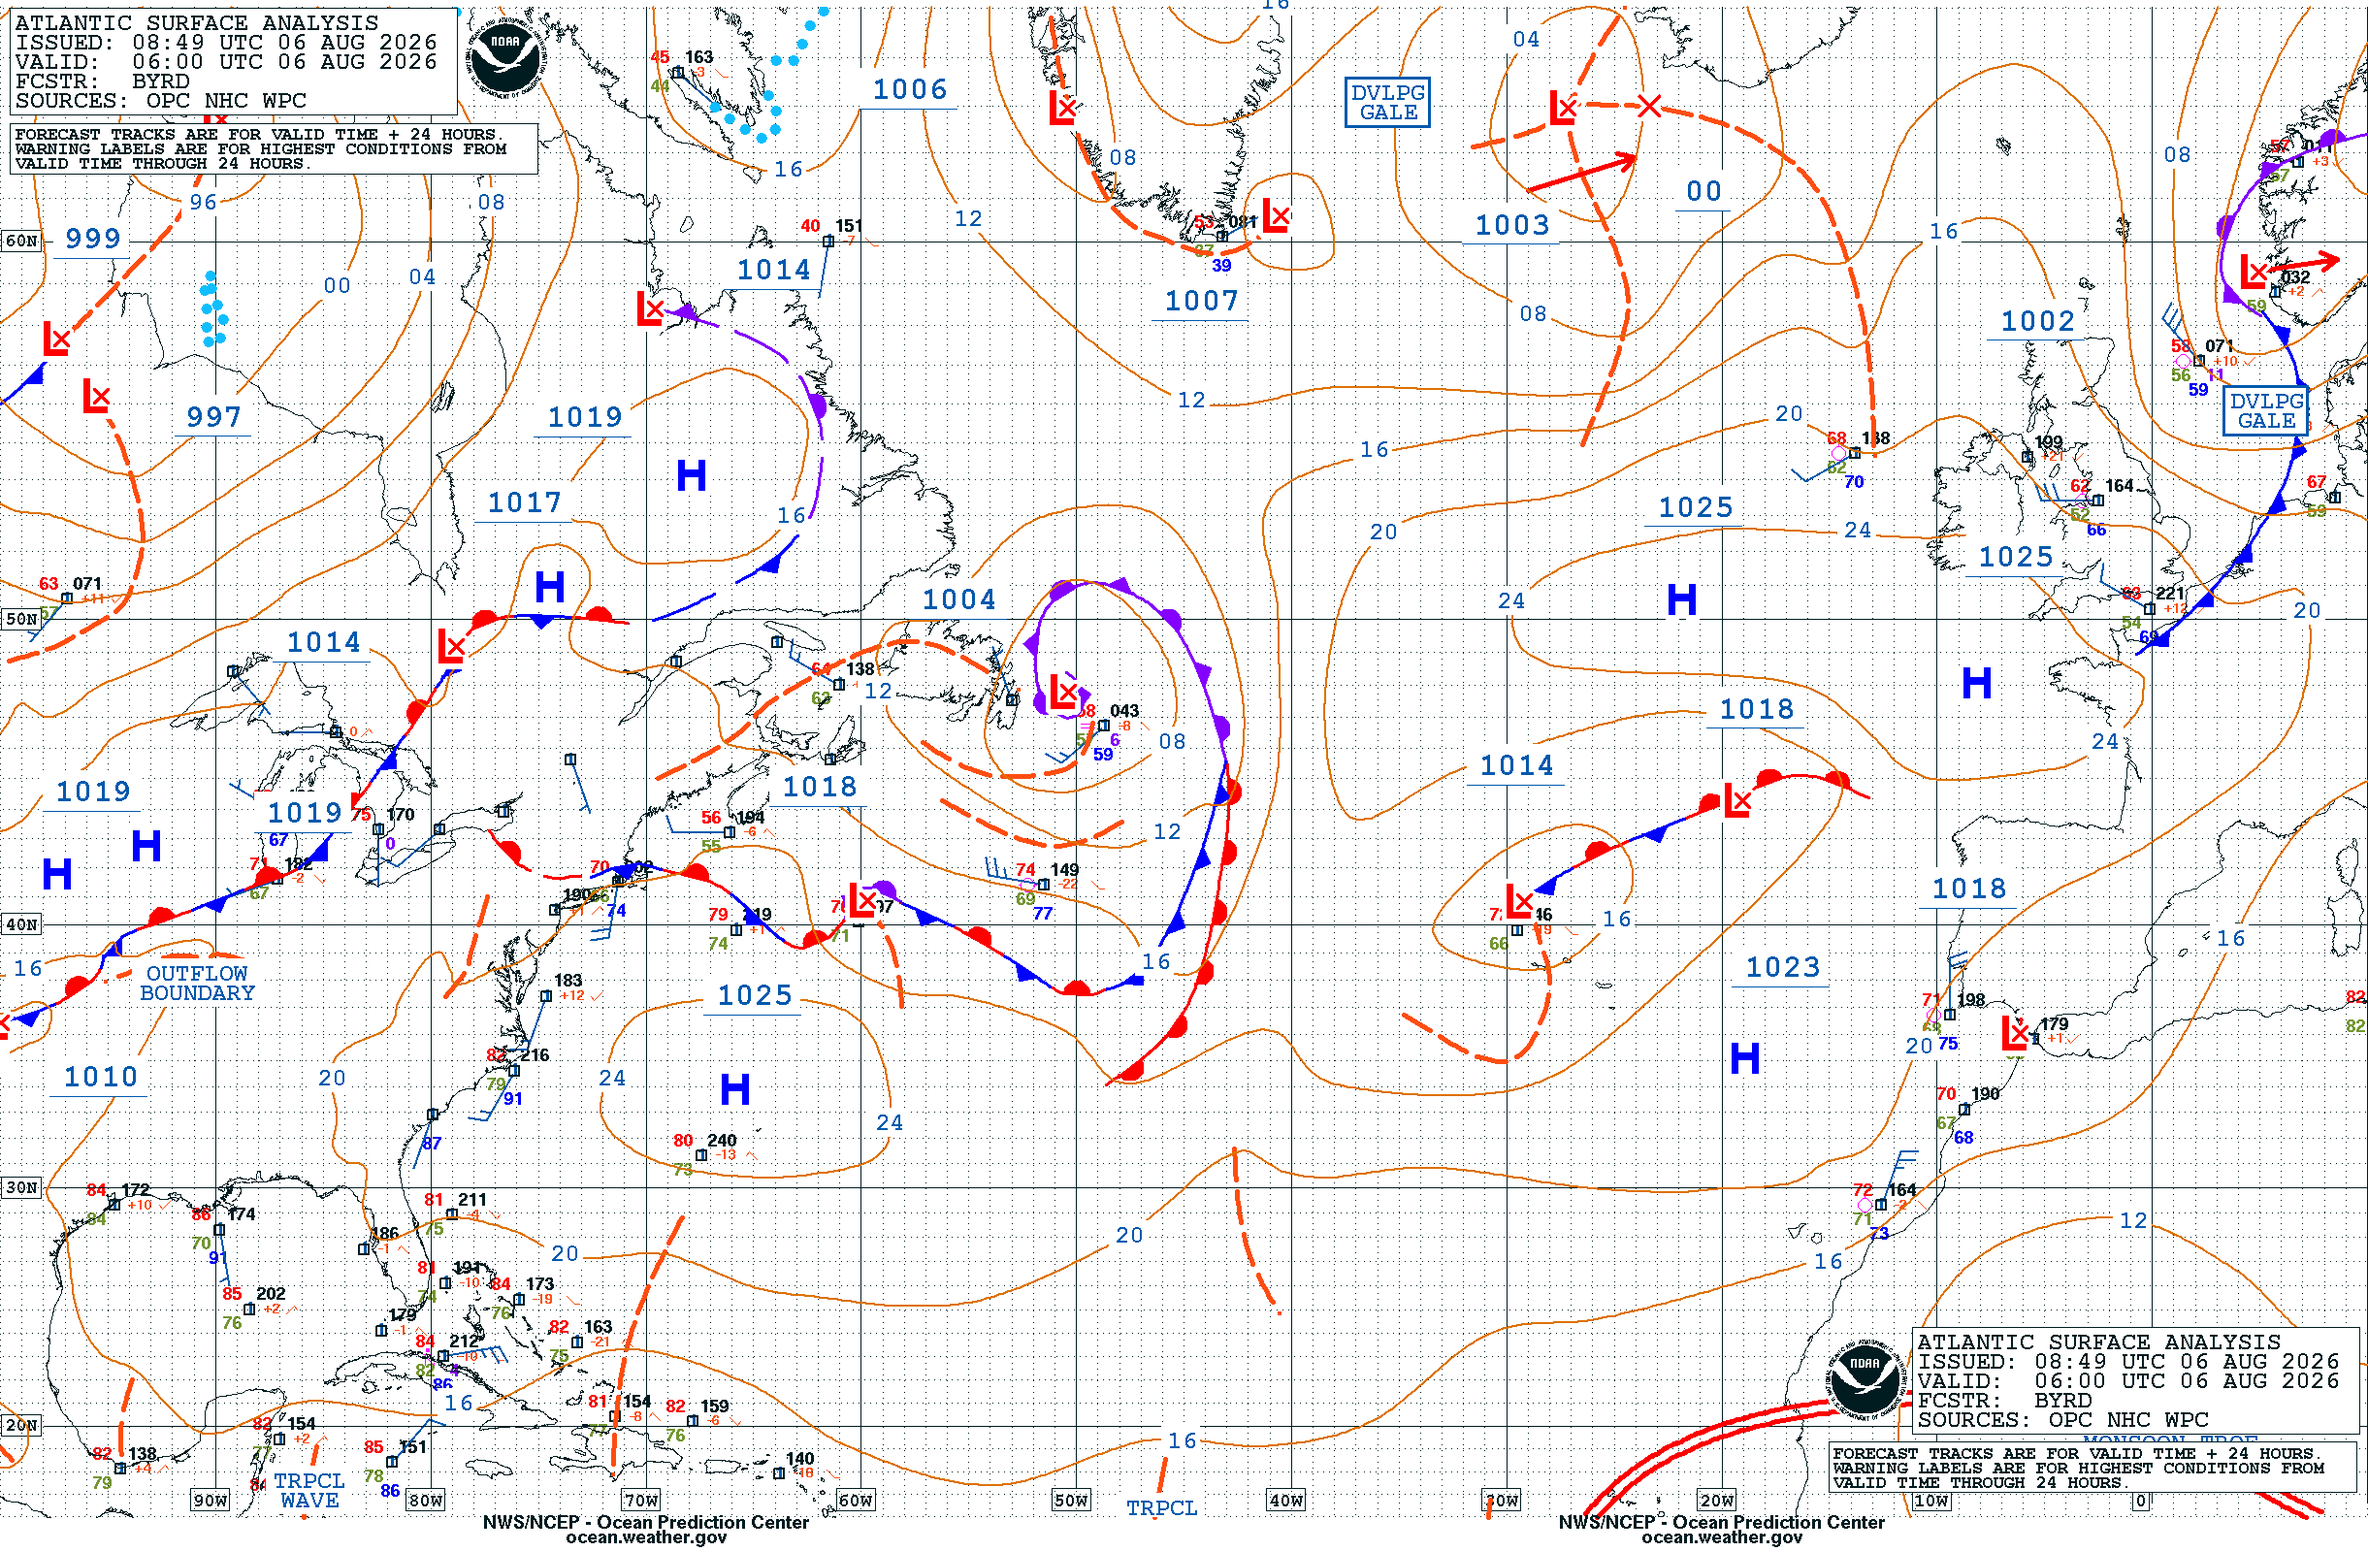
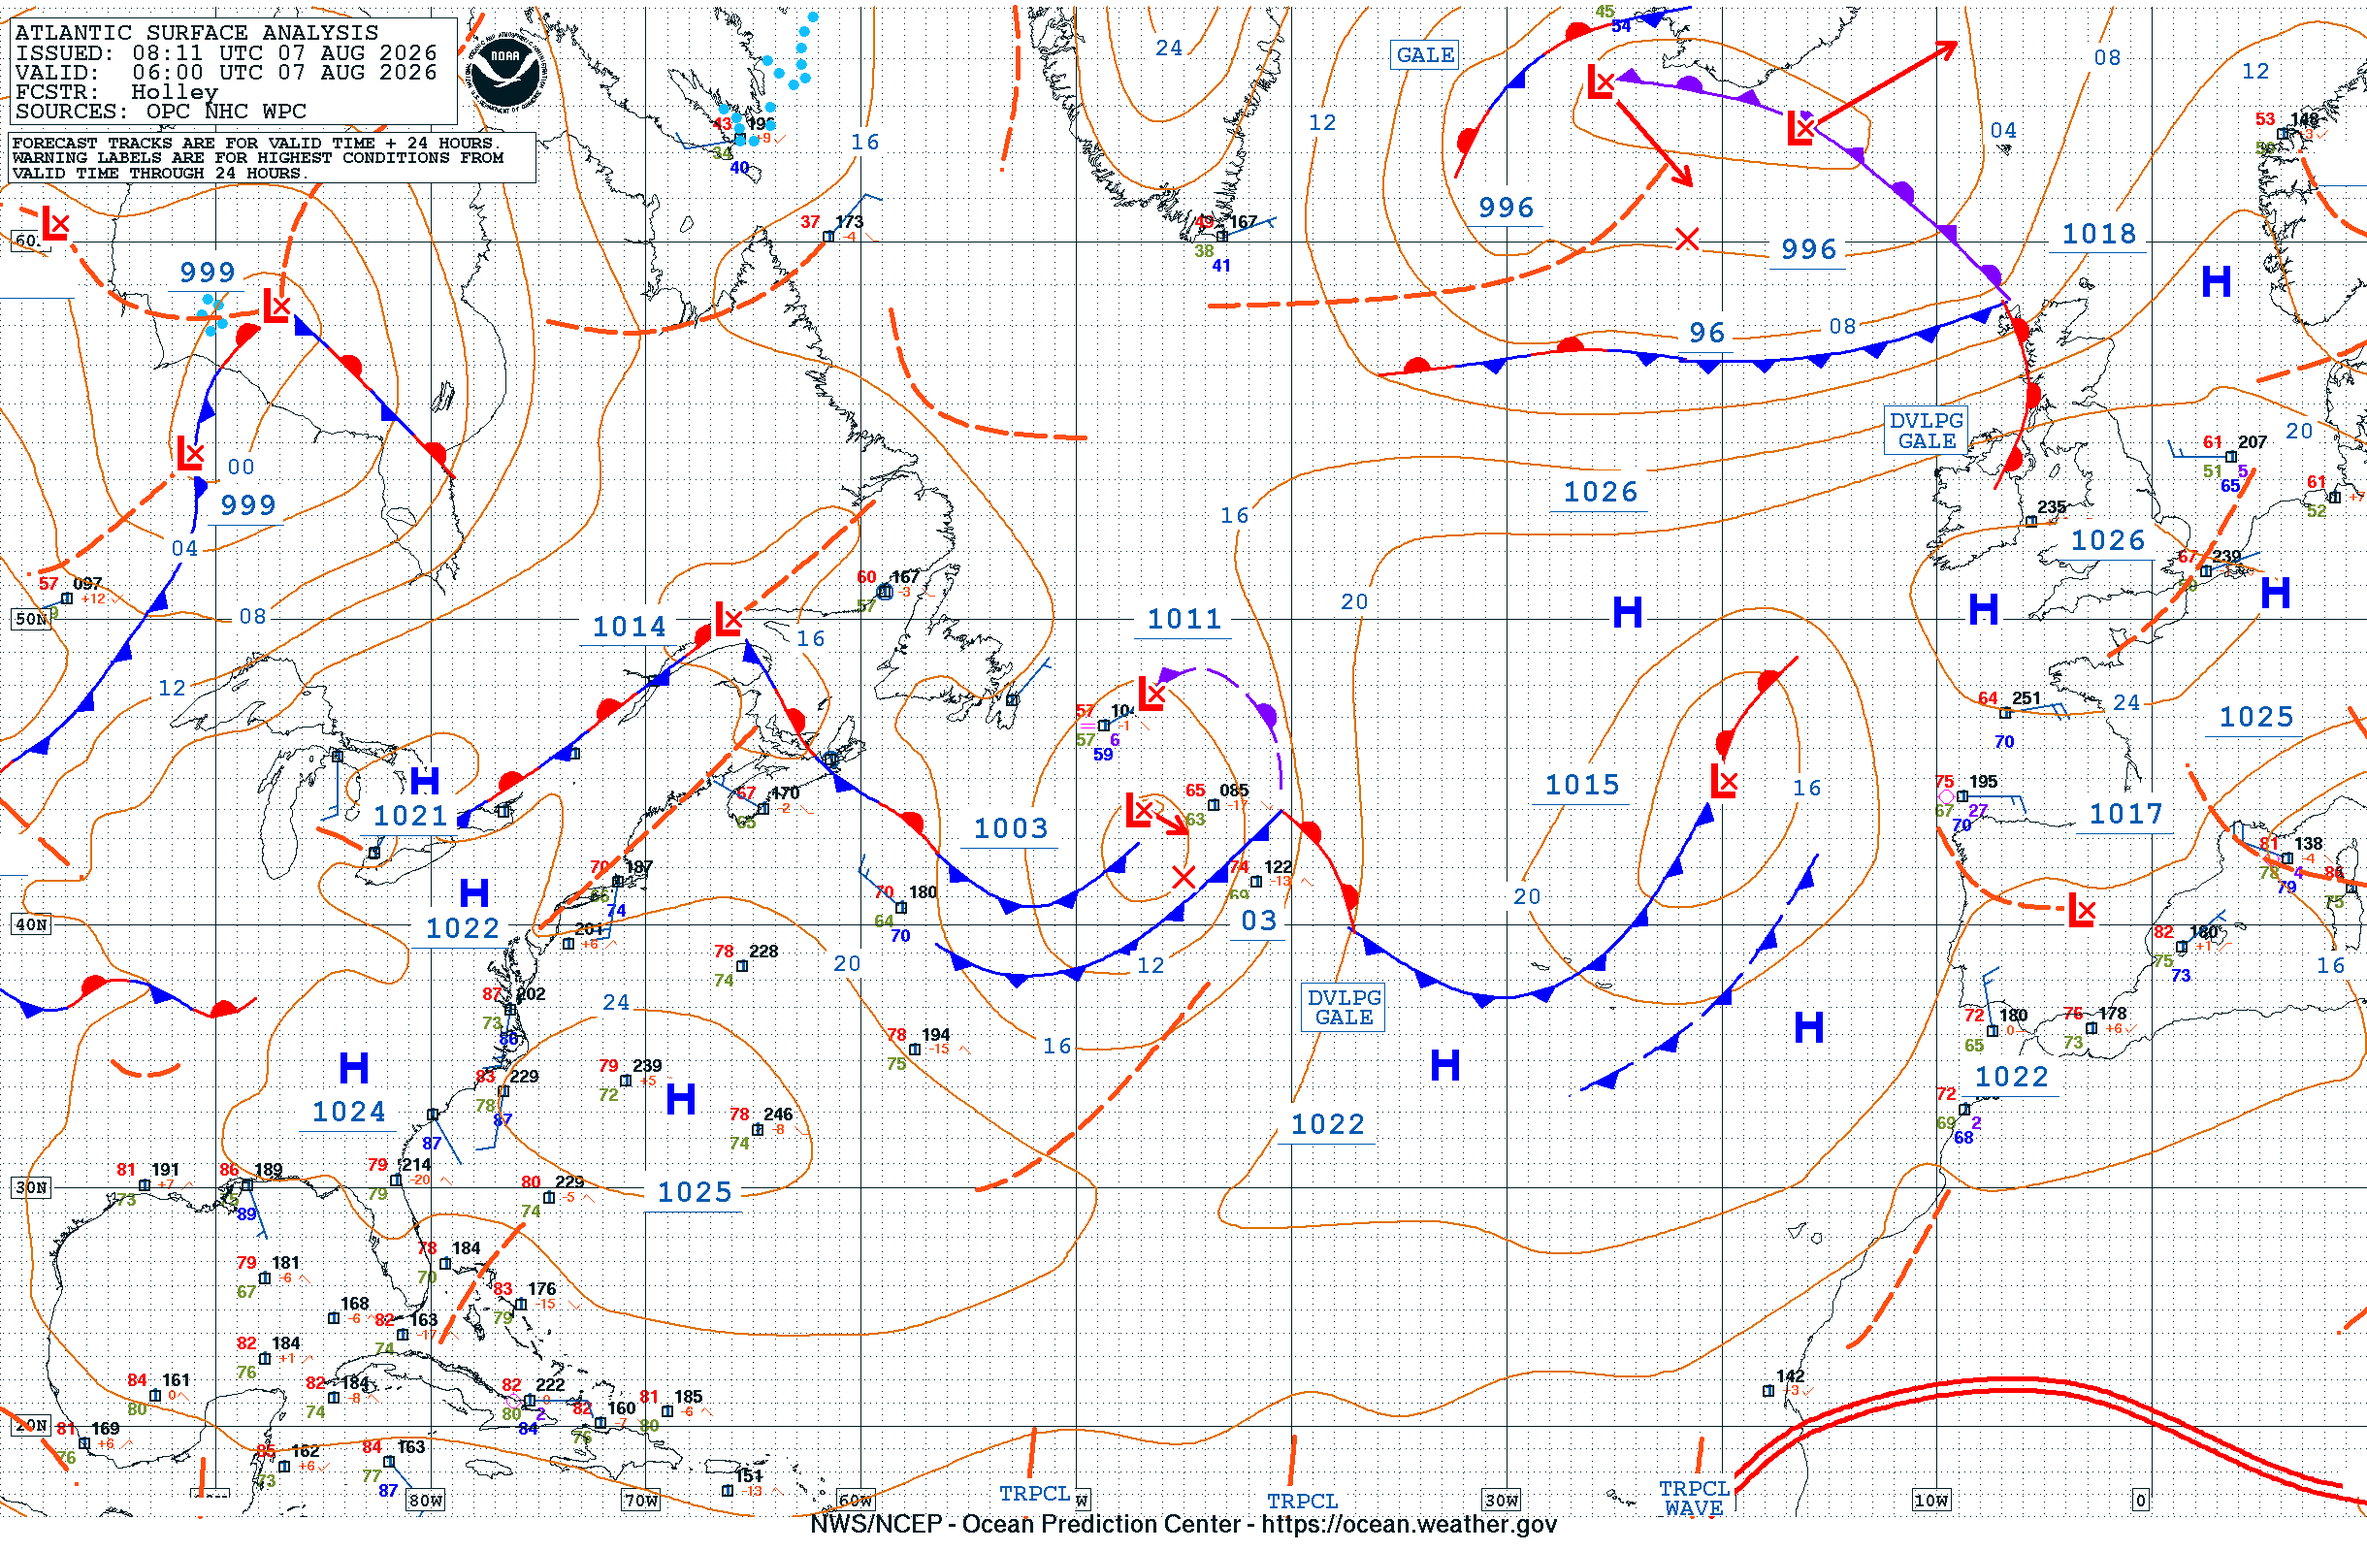
Refine topography query resampling

diff --git a/architeuthis/toolbox/assets/dashExtensions_default.js b/architeuthis/toolbox/assets/dashExtensions_default.js
@@ -1,0 +1,43 @@
+window.dashExtensions = Object.assign({}, window.dashExtensions, {
+    default: {
+        function0: function(feature, latlng) {
+                const size = feature.properties.size || 0;
+                const color = feature.properties.color || "#ff0000";
+                const angle = feature.properties.angle || 0;
+                const opacity = feature.properties.opacity || 0.80;
+                const icon = feature.properties.icon || "material-symbols:circle";
+                const html = `<span class="iconify"
+        data-icon=${icon}
+        data-width="${size}"
+        data-height="${size}"
+        style="
+        transform: rotate(${angle}deg);
+        color: ${color};
+        display: block;
+        opacity: ${opacity};
+        ">
+    </span>`;
+                return L.marker(latlng, {
+                    icon: L.divIcon({
+                        html: html,
+                        className: "",
+                        iconSize: [size, size],
+                        iconAnchor: [size / 2, size / 2]
+                    })
+                });
+            }
+
+            ,
+        function1: function(feature) {
+            if (feature.properties.kind === "route") {
+                return {
+                    color: feature.properties.color || "#ff0000",
+                    weight: feature.properties.weight || 2,
+                    opacity: feature.properties.opacity || 0.80,
+                };
+            }
+            return {};
+        }
+
+    }
+});

diff --git a/architeuthis/core.py b/architeuthis/core.py
@@ -16,7 +16,14 @@ from architeuthis.optimization import Opti
 from architeuthis.icebergs import berg_zone
 from architeuthis.forecast import Forecast, Topography
 from architeuthis.common import ArchiteuthisObject, Datetime
-from architeuthis.toolbox.geo_utils import great_circle_route, distances, midpoints, headings, poly_deviated_route
+from architeuthis.toolbox.geo_utils import (
+    great_circle_route,
+    distances,
+    midpoints,
+    headings,
+    poly_deviated_route,
+    resample_coordinates,
+)
 
 # Useful for broadcasting with matrices later.
 def tall(array):
@@ -66,68 +73,69 @@ SOLVED = {
 }
 
 exclusion_zones = [
-    [
-        [46.6475507, -53.0879974],
-        [47.1448975, -52.6904297],
-        [47.8057761, -52.6574707],
-        [48.7272088, -53.0310059],
-        [52.2547088, -55.5688477],
-        [57.0646303, -61.6992188],
-        [59.1759282, -64.0283203],
-        [60.5221575, -64.8193359],
-        [62.0833149, -66.2255859],
-        [63.5485522, -70.3125000],
-        [64.4348920, -73.6083984],
-        [64.8862654, -77.3876953],
-        [66.0715465, -86.4404297],
-        [64.1681069, -92.1093750],
-        [59.4450751, -96.6796875],
-        [56.2677611, -95.9765625],
-        [46.1950421, -92.7246094],
-        [41.0793511, -87.6708984],
-        [35.3532161, -75.9814453],
-        [37.7620299, -77.0141602],
-        [38.3761154, -76.9454956],
-        [38.9935721, -76.8273926],
-        [39.2577782, -76.3659668],
-        [38.3416562, -75.9594727],
-        [37.2980904, -75.9979248],
-        [37.1121458, -75.9539795],
-        [37.6164071, -75.5804443],
-        [38.0351124, -75.2563477],
-        [38.4084061, -75.0723267],
-        [38.7883454, -75.0860596],
-        [39.2705372, -74.6026611],
-        [39.7747695, -74.1137695],
-        [40.3904888, -73.9984131],
-        [41.2881262, -70.7794189],
-        [41.2365112, -69.9746704],
-        [41.2943173, -69.9362183],
-        [41.8347815, -69.9307251],
-        [42.0615286, -70.0708008],
-        [42.6440611, -70.5844116],
-        [43.4130287, -70.4553223],
-        [43.8345268, -68.8623047],
-        [44.6881828, -67.1539307],
-        [44.2412638, -66.3958740],
-        [43.3930737, -66.0305786],
-        [43.3850899, -65.6268311],
-        [43.5007524, -65.2807617],
-        [44.4631908, -63.5641479],
-        [45.2555553, -60.9851074],
-        [46.0045933, -59.6667480],
-        [47.0252060, -60.3918457],
-        [47.5394554, -59.2053223],
-        [47.2549999, -55.9616089],
-        [46.9146271, -55.9780884],
-        [46.8414071, -55.8050537],
-        [46.8733358, -55.3738403],
-        [46.8188578, -54.1873169],
-        [46.6098279, -53.5720825],
-        [46.6263348, -53.1614685],
-        [46.6484934, -53.0879974],
-        [46.6475507, -53.0879974]
-    ],
+    # [
+    #     [46.6475507, -53.0879974],
+    #     [47.1448975, -52.6904297],
+    #     [47.8057761, -52.6574707],
+    #     [48.7272088, -53.0310059],
+    #     [52.2547088, -55.5688477],
+    #     [57.0646303, -61.6992188],
+    #     [59.1759282, -64.0283203],
+    #     [60.5221575, -64.8193359],
+    #     [62.0833149, -66.2255859],
+    #     [63.5485522, -70.3125000],
+    #     [64.4348920, -73.6083984],
+    #     [64.8862654, -77.3876953],
+    #     [66.0715465, -86.4404297],
+    #     [64.1681069, -92.1093750],
+    #     [59.4450751, -96.6796875],
+    #     [56.2677611, -95.9765625],
+    #     [46.1950421, -92.7246094],
+    #     [41.0793511, -87.6708984],
+    #     [35.3532161, -75.9814453],
+    #     [37.7620299, -77.0141602],
+    #     [38.3761154, -76.9454956],
+    #     [38.9935721, -76.8273926],
+    #     [39.2577782, -76.3659668],
+    #     [38.3416562, -75.9594727],
+    #     [37.2980904, -75.9979248],
+    #     [37.1121458, -75.9539795],
+    #     [37.6164071, -75.5804443],
+    #     [38.0351124, -75.2563477],
+    #     [38.4084061, -75.0723267],
+    #     [38.7883454, -75.0860596],
+    #     [39.2705372, -74.6026611],
+    #     [39.7747695, -74.1137695],
+    #     [40.3904888, -73.9984131],
+    #     [41.2881262, -70.7794189],
+    #     [41.2365112, -69.9746704],
+    #     [41.2943173, -69.9362183],
+    #     [41.8347815, -69.9307251],
+    #     [42.0615286, -70.0708008],
+    #     [42.6440611, -70.5844116],
+    #     [43.4130287, -70.4553223],
+    #     [43.8345268, -68.8623047],
+    #     [44.6881828, -67.1539307],
+    #     [44.2412638, -66.3958740],
+    #     [43.3930737, -66.0305786],
+    #     [43.3850899, -65.6268311],
+    #     [43.5007524, -65.2807617],
+    #     [44.4631908, -63.5641479],
+    #     [45.2555553, -60.9851074],
+    #     [46.0045933, -59.6667480],
+    #     [47.0252060, -60.3918457],
+    #     [47.5394554, -59.2053223],
+    #     [47.2549999, -55.9616089],
+    #     [46.9146271, -55.9780884],
+    #     [46.8414071, -55.8050537],
+    #     [46.8733358, -55.3738403],
+    #     [46.8188578, -54.1873169],
+    #     [46.6098279, -53.5720825],
+    #     [46.6263348, -53.1614685],
+    #     [46.6484934, -53.0879974],
+    #     [46.6475507, -53.0879974]
+    # ],
+    
     # [
     #     [47.234906794905456, -2.298894594711654],
     #     [47.25856998567288, -2.4325583888579034],
@@ -419,9 +427,28 @@ class RoutingAnalysis(ArchiteuthisAnalysis):
         uc = self.current("uo", environment_query) * 3600./1852.
         vc = self.current("vo", environment_query) * 3600./1852.
         
+        # tlat = midpoints(np.concatenate((lat[1:-1], clat)))
+        # tlon = midpoints(np.concatenate((lon[1:-1], clon)))
+        
+        
+        # print("ntm")
+        
+        tlat, tlon = resample_coordinates(
+            lat[1:-1],
+            lon[1:-1],
+            n=6,
+        )
+        
+        # print(tlon)
+        # print(tlat)
+        
+        # tlat, tlon = lat[1:-1], lon[1:-1]
+        
         topography_query = np.concatenate([
-            np.concatenate((lat[1:-1], clat)),
-            np.concatenate((lon[1:-1], clon)),
+            # np.concatenate((lat[1:-1], clat)),
+            # np.concatenate((lon[1:-1], clon)),
+            tlat,
+            tlon,
         ], axis=1)
         
         z = self.topography("z", topography_query)
@@ -432,9 +459,6 @@ class RoutingAnalysis(ArchiteuthisAnalysis):
         # TODO find why east/north wave generates unstability
         # swh = np.sqrt(uw**2. + vw**2.)
         # mwd = np.mod(np.arctan2d(uw, vw)+180, 360.)
-        
-        # tcs = np.sqrt(u10**2. + v10**2.) # current speed in kts
-        # tcd = np.mod(np.arctan2d(uc, vc), 360.) # current going to from 0 to 360 deg
         
         cog = headings(lat, lon)
         
@@ -461,6 +485,10 @@ class RoutingAnalysis(ArchiteuthisAnalysis):
         # Apparent Wind Speed (AWS) and Apparent Wind Angle (AWA)
         aws = np.sqrt(u_aw**2. + v_aw**2.)
         awa = np.arctan2d(u_aw, v_aw)
+        
+        # Current Speed (CS) and Current direction (CD)
+        cs = np.sqrt(uc**2. + vc**2.) # current speed in kts
+        cd = np.mod(np.arctan2d(uc, vc), 360.) # current going to from 0 to 360 deg
         
         vessel_query = np.concatenate([
             stw, tws, np.abs(twa), swh, np.abs(mwa),

diff --git a/architeuthis/toolbox/geo_utils.py b/architeuthis/toolbox/geo_utils.py
@@ -117,6 +117,33 @@ def midpoints(pts):
     return (pts[:-1] + pts[1:]) / 2
 
 
+def resample_coordinates(lat, lon, n):
+    
+    if n <= 0:
+        return lat, lon
+
+    # Calculate step fractions (e.g., for n=1: t_vals = [0.0, 0.5])
+    t_vals = np.linspace(0, 1, n + 2)[:-1]
+    
+    new_lats = []
+    new_lons = []
+    
+    # lat.shape[0] safely gets the length of a CasADi vector or Numpy array
+    num_points = lat.shape[0]
+    
+    # Build the interpolation point-by-point
+    for i in range(num_points - 1):
+        for t in t_vals:
+            new_lats.append(lat[i] * (1 - t) + lat[i+1] * t)
+            new_lons.append(lon[i] * (1 - t) + lon[i+1] * t)
+            
+    # Append the final destination point
+    new_lats.append(lat[-1])
+    new_lons.append(lon[-1])
+    
+    return np.concatenate(new_lats), np.concatenate(new_lons)
+
+
 def great_circle_path_points(
         p1,
         p2,

diff --git a/architeuthis/ui.py b/architeuthis/ui.py
@@ -161,10 +161,15 @@ remove_white_pixels(SFC_URL, SFC_OUTPUT, WHITE_THRESHOLD)
 # minimum_latitude=30.
 # maximum_latitude=60.
 
+# minimum_longitude=-90.
+# maximum_longitude=-72.
+# minimum_latitude=9.
+# maximum_latitude=18.
+
 minimum_longitude=-90.
-maximum_longitude=-72.
-minimum_latitude=9.
-maximum_latitude=18.
+maximum_longitude=-50.
+minimum_latitude=10.
+maximum_latitude=50.
 
 steps_00_12 = list(range(0, 145, 3)) + list(range(150, 361, 6))
 
@@ -1036,4 +1041,4 @@ def update_arrows(m, qvar, time_index, model, zoom):
 
 
 if __name__ == "__main__":
-    app.run(debug=True, port=8053)
+    app.run(debug=True, port=8052)
